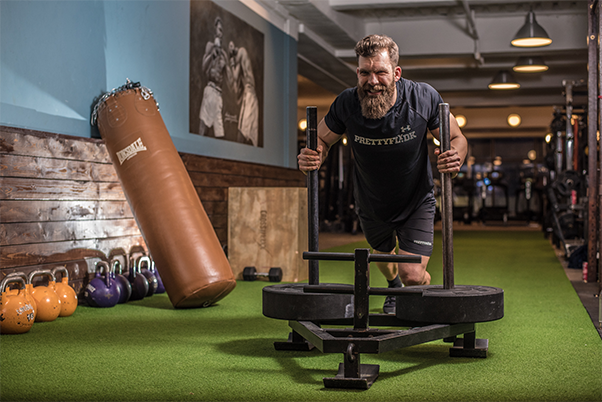
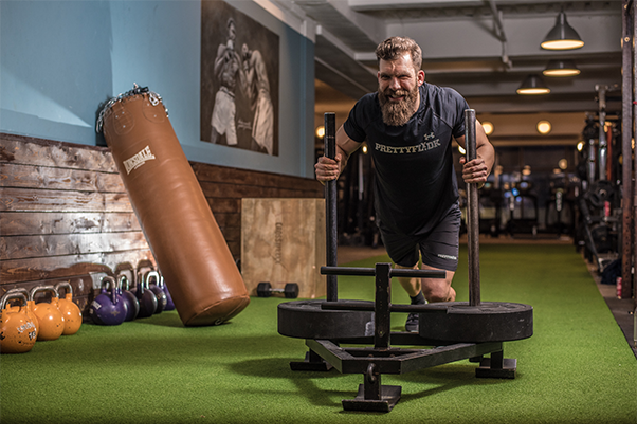
fix slider

diff --git a/index.html b/index.html
@@ -235,11 +235,11 @@
                 </div>
                 
           </div>
-          <!-- <div class="slider__item">
+          <div class="slider__item">
             <div>
                 <img src="img/Put your image here (5).png"alt="">
             </div>
-          </div> -->
+          </div>
         </div>
         <a class="slider__control slider__control_left" href="#" role="button"></a>
         <a class="slider__control slider__control_right slider__control_show" href="#" role="button"></a>

diff --git a/style.scss b/style.scss
@@ -1041,7 +1041,7 @@ html *{
     flex: 0 0 50%;
     max-width: 50%;
     div {
-        height: 217px;
+        width: 100%;
         display: flex;
         justify-content: center;
         align-items: center;

diff --git a/style.css b/style.css
@@ -1450,7 +1450,7 @@ html * {
 }
 
 .slider__item div {
-  height: 217px;
+  width: 100%;
   display: -webkit-box;
   display: -ms-flexbox;
   display: flex;
